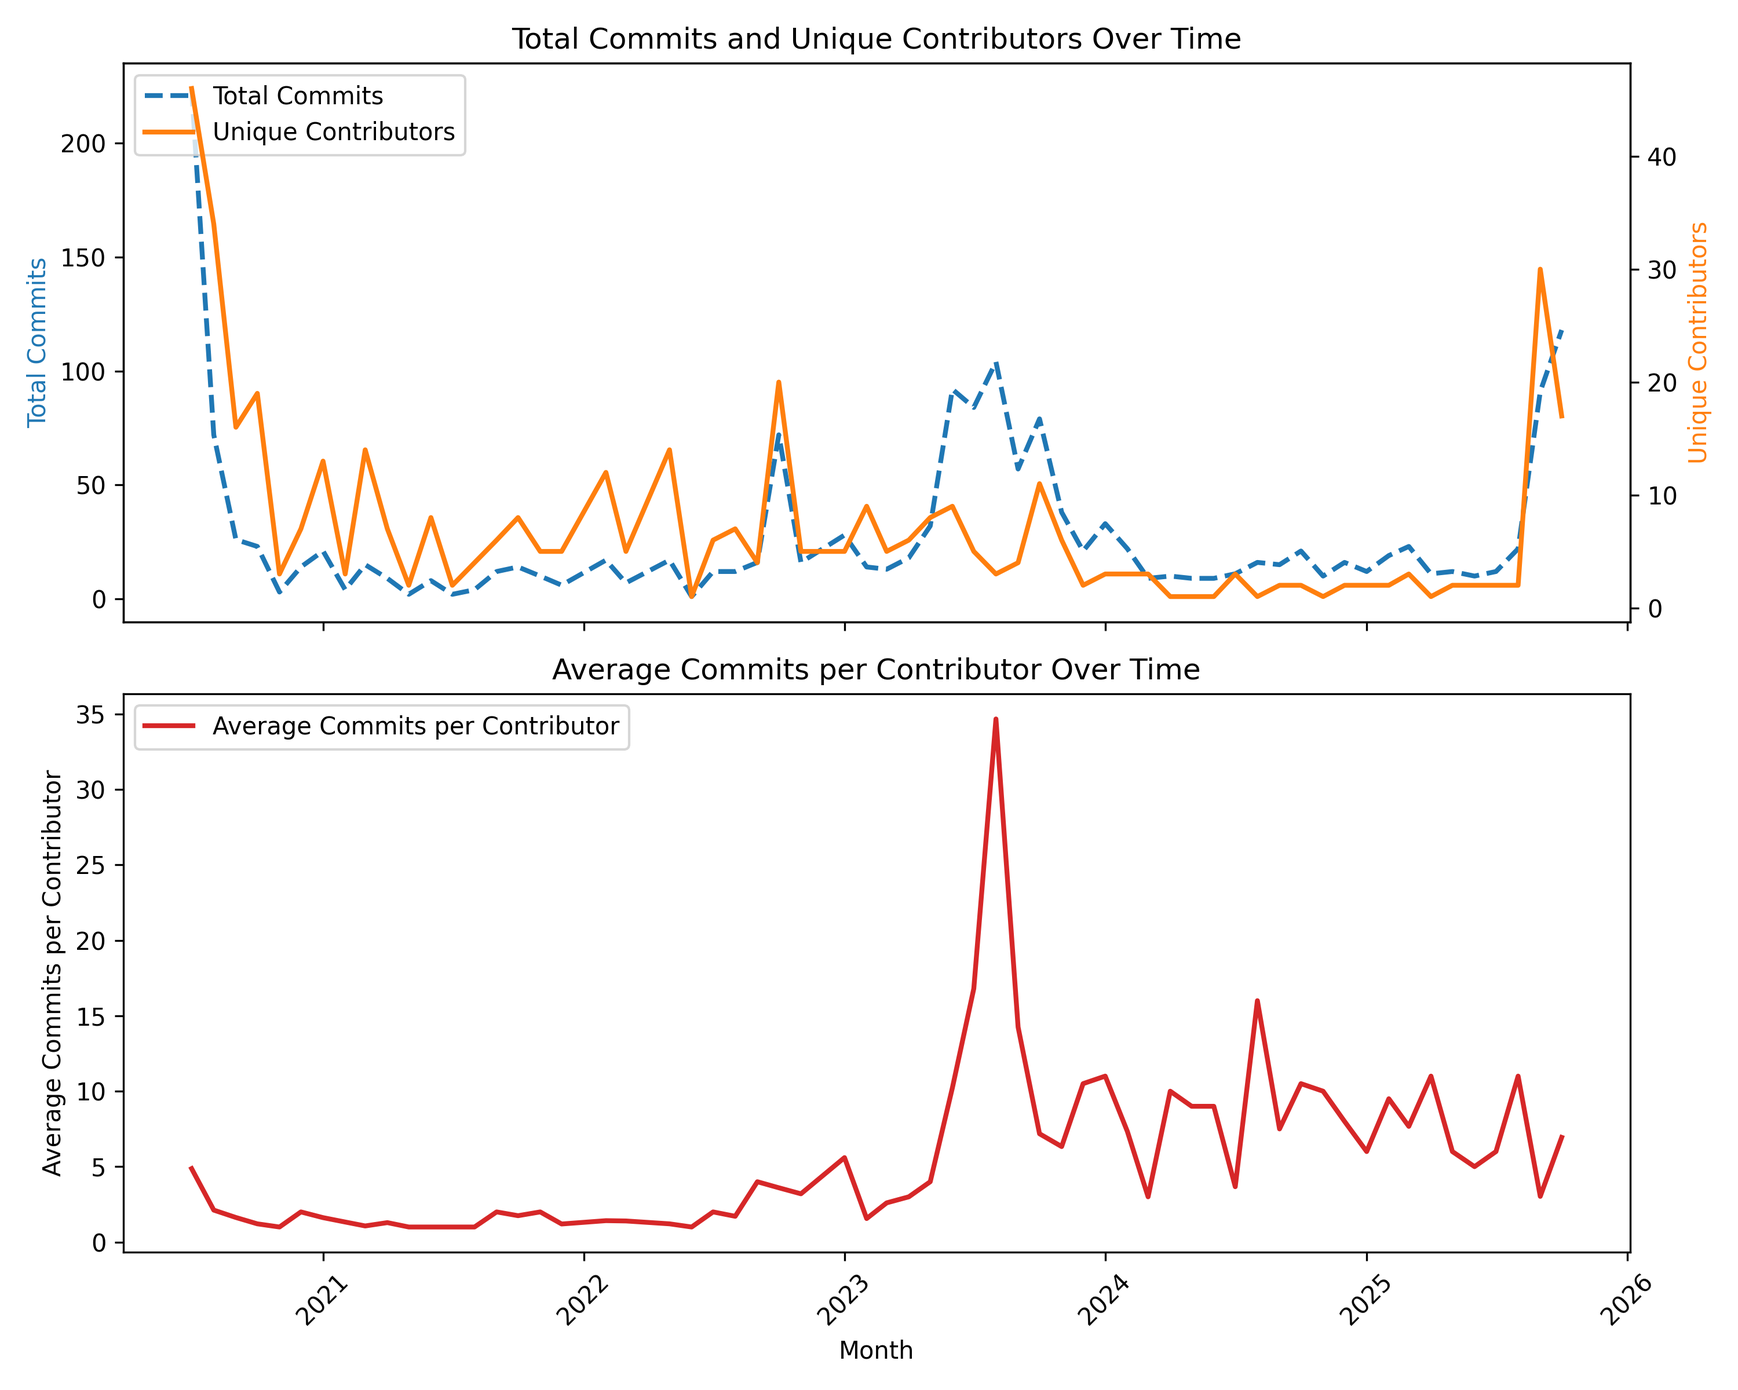
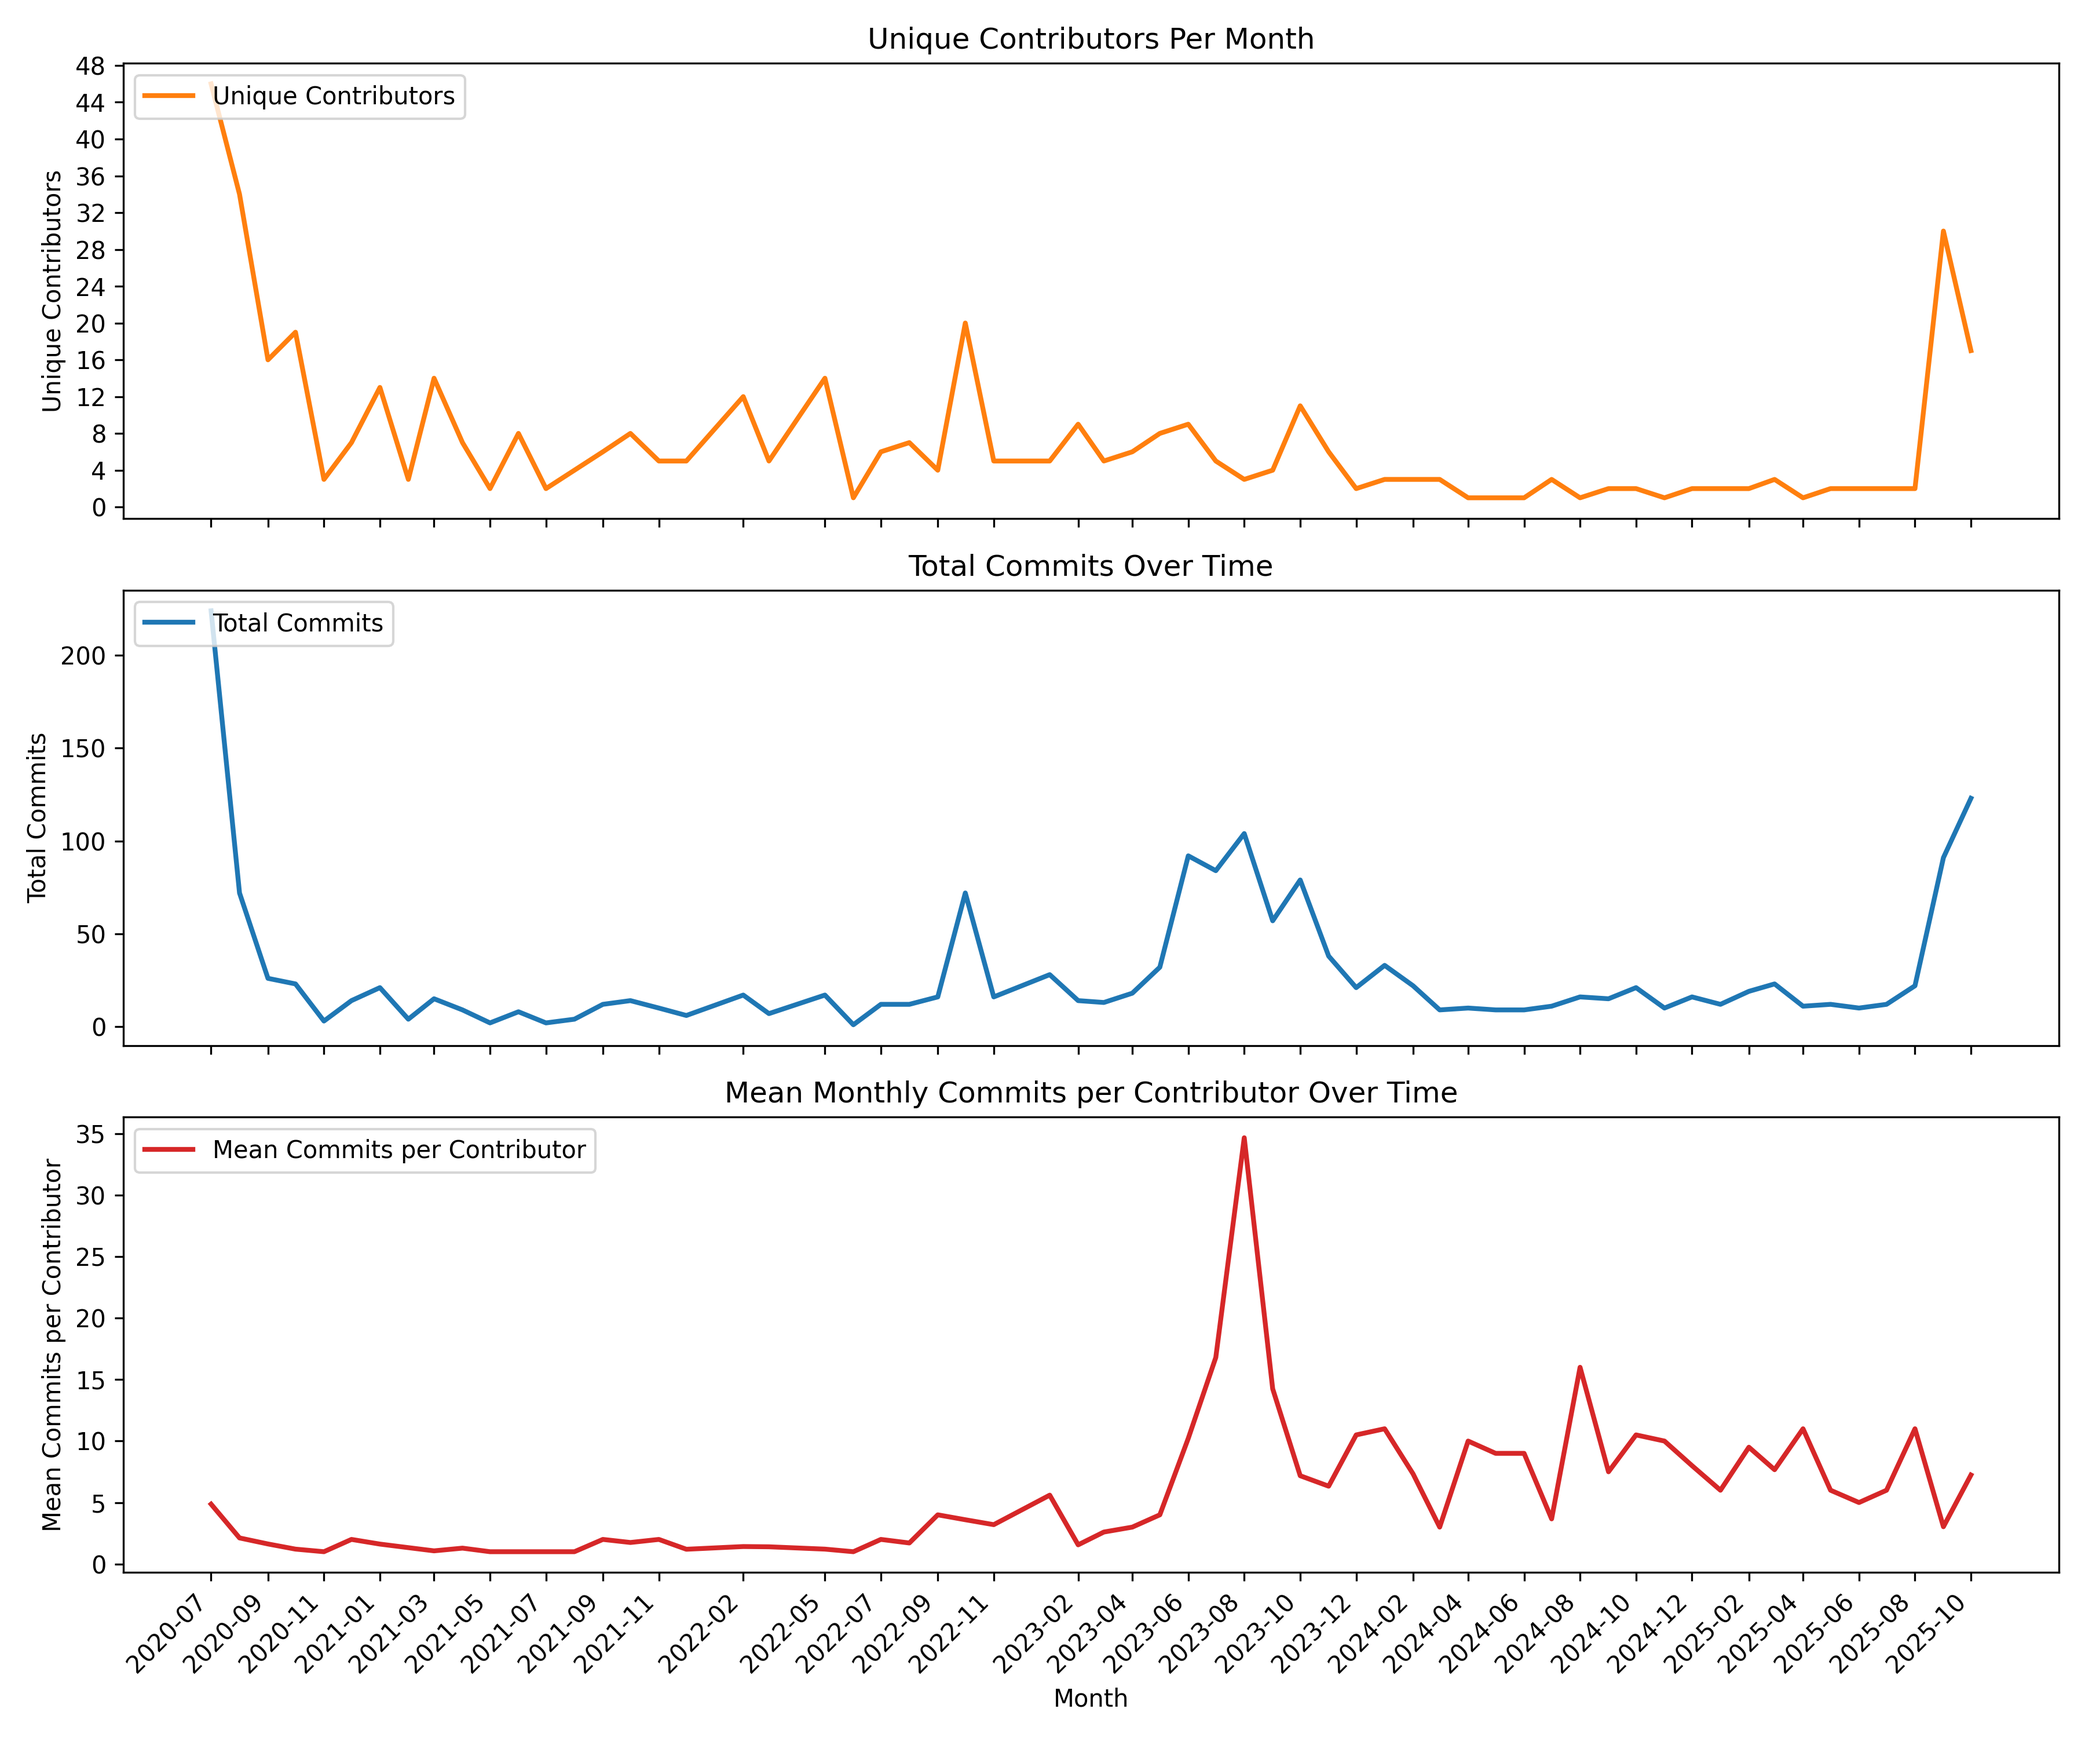
Update scripts

diff --git a/final-report/activity_metrics.js b/final-report/activity_metrics.js
@@ -9,10 +9,28 @@ const owner = "anuraghazra";
 const repo = "github-readme-stats";
 
 // --------------------------------------------------------
-// 1. Average commits per contributor per month
+// 1. Time since last commit
 // --------------------------------------------------------
-async function getAverageCommitsPerContributorByMonth() {
-    console.log(`Fetching commits for ${owner}/${repo} ...`);
+async function getTimeSinceLastCommit() {
+    console.log(`\n=== [1] Time Since Last Commit ===`);
+    const { data: commits } = await octokit.rest.repos.listCommits({
+        owner,
+        repo,
+        per_page: 1,
+    });
+    const lastCommitDate = dayjs(commits[0].commit.author.date);
+    const daysSince = dayjs().diff(lastCommitDate, "day");
+    console.log(
+        `Time since last commit: ${daysSince} days (${lastCommitDate.format("YYYY-MM-DD")})`
+    );
+    return daysSince;
+}
+
+// --------------------------------------------------------
+// 2 & 3. Unique contributors per month + Mean monthly commits per contributor
+// --------------------------------------------------------
+async function getContributorActivityByMonth() {
+    console.log(`\n=== [2 & 3] Monthly Contributor and Commit Activity ===`);
     const commits = await octokit.paginate(octokit.rest.repos.listCommits, {
         owner,
         repo,
@@ -38,48 +56,32 @@ async function getAverageCommitsPerContributorByMonth() {
             month,
             totalCommits: data.count,
             uniqueContributors: data.contributors.size,
-            avgCommitsPerContributor: (data.count / data.contributors.size).toFixed(2),
+            meanCommitsPerContributor: (data.count / data.contributors.size).toFixed(2),
         }));
 
     console.table(results);
 
-    const header = "month,total_commits,unique_contributors,avg_commits_per_contributor\n";
+    const header = "month,total_commits,unique_contributors,mean_commits_per_contributor\n";
     const csvData =
         header +
         results
             .map(
                 (r) =>
-                    `${r.month},${r.totalCommits},${r.uniqueContributors},${r.avgCommitsPerContributor}`
+                    `${r.month},${r.totalCommits},${r.uniqueContributors},${r.meanCommitsPerContributor}`
             )
             .join("\n");
 
-    const outputPath = "./average_commits_per_contributor.csv";
+    const outputPath = "./monthly_contributor_activity.csv";
     fs.writeFileSync(outputPath, csvData);
     console.log(`CSV file saved to ${outputPath}`);
+    return results;
 }
 
 // --------------------------------------------------------
-// 2. Time since last commit
-// --------------------------------------------------------
-async function getTimeSinceLastCommit() {
-    const { data: commits } = await octokit.rest.repos.listCommits({
-        owner,
-        repo,
-        per_page: 1,
-    });
-    const lastCommitDate = dayjs(commits[0].commit.author.date);
-    const daysSince = dayjs().diff(lastCommitDate, "day");
-    console.log(
-        `Time since last commit: ${daysSince} days (${lastCommitDate.format("YYYY-MM-DD")})`
-    );
-    return daysSince;
-}
-
-// --------------------------------------------------------
-// 3. Pull Request activity
+// 4. Pull Request activity
 // --------------------------------------------------------
 async function getPRActivity() {
-    console.log("Fetching Pull Requests...");
+    console.log(`\n=== [4] Pull Request Activity ===`);
     const prs = await octokit.paginate(octokit.rest.pulls.list, {
         owner,
         repo,
@@ -97,10 +99,10 @@ async function getPRActivity() {
 }
 
 // --------------------------------------------------------
-// 4. Issue activity
+// 5. Issue activity
 // --------------------------------------------------------
 async function getIssueActivity() {
-    console.log("Fetching Issues...");
+    console.log(`\n=== [5] Issue Activity ===`);
     const issues = await octokit.paginate(octokit.rest.issues.listForRepo, {
         owner,
         repo,
@@ -117,10 +119,10 @@ async function getIssueActivity() {
 }
 
 // --------------------------------------------------------
-// 5. Newcomer Retention (% of first-time contributors who return)
+// 6. Newcomer Retention (% of first-time contributors who return)
 // --------------------------------------------------------
 async function getNewcomerRetention() {
-    console.log("Calculating newcomer retention...");
+    console.log(`\n=== [6] Newcomer Retention ===`);
 
     const commits = await octokit.paginate(octokit.rest.repos.listCommits, {
         owner,
@@ -128,7 +130,6 @@ async function getNewcomerRetention() {
         per_page: 100,
     });
 
-    // Map contributors to their commit dates
     const contributorCommits = {};
     for (const c of commits) {
         const author = c.author?.login;
@@ -140,15 +141,10 @@ async function getNewcomerRetention() {
 
     let newcomers = 0;
     let retained = 0;
-
     for (const [author, dates] of Object.entries(contributorCommits)) {
         dates.sort((a, b) => a - b);
-        if (dates.length > 1) {
-            newcomers++;
-            retained++;
-        } else {
-            newcomers++;
-        }
+        newcomers++;
+        if (dates.length > 1) retained++;
     }
 
     const retentionPercent = ((retained / newcomers) * 100).toFixed(2);
@@ -161,13 +157,13 @@ async function getNewcomerRetention() {
 // --------------------------------------------------------
 (async () => {
     try {
-        console.log("=== Running Project Activity Metrics ===");
-        await getAverageCommitsPerContributorByMonth();
+        console.log("Running Project Activity Metrics...");
         await getTimeSinceLastCommit();
+        await getContributorActivityByMonth();
         await getPRActivity();
         await getIssueActivity();
         await getNewcomerRetention();
-        console.log("All metrics collected successfully.");
+        console.log("\nAll metrics collected successfully.");
     } catch (err) {
         console.error("Error fetching data:", err);
     }

diff --git a/final-report/plot.py b/final-report/plot.py
@@ -1,52 +1,62 @@
 import pandas as pd
 import matplotlib.pyplot as plt
+import numpy as np
 
 # === CONFIG ===
-csv_path = "final-report/average_commits_per_contributor.csv"  # path to your CSV file
-output_path = "final-report/activity_trends.png"               # output image file
+csv_path = "final-report/monthly_contributor_activity.csv"  # path to your CSV file
+output_path = "final-report/activity_trends.png"             # output image file
 
 # === Load data ===
 df = pd.read_csv(csv_path)
 df["month"] = pd.to_datetime(df["month"], format="%Y-%m")
 df = df.sort_values("month")
 
-# === Create figure with two subplots ===
-fig, (ax1, ax2) = plt.subplots(2, 1, figsize=(10, 8), sharex=True)
+# === Create figure with three subplots ===
+fig, axes = plt.subplots(3, 1, figsize=(12, 10), sharex=True)
 
 # -----------------------------------------------------------
-# Subplot 1: Commits and contributors (two y-axes)
+# Subplot 1: Unique contributors per month (TOP)
 # -----------------------------------------------------------
-ax1a = ax1.twinx()
+axes[0].plot(df["month"], df["unique_contributors"], color="tab:orange",
+             linestyle="-", linewidth=2, label="Unique Contributors")
 
-# Left y-axis: total commits (solid line)
-lns1 = ax1.plot(df["month"], df["total_commits"], color="tab:blue",
-                linestyle="--", linewidth=2, label="Total Commits")
+# Denser y-axis ticks
+ymin, ymax = axes[0].get_ylim()
+axes[0].set_yticks(np.arange(0, ymax + 1, max(1, (ymax // 10) or 1)))
 
-# Right y-axis: unique contributors (dashed line)
-lns2 = ax1a.plot(df["month"], df["unique_contributors"], color="tab:orange",
-                 linestyle="-", linewidth=2, label="Unique Contributors")
-
-# Labels and formatting
-ax1.set_ylabel("Total Commits", color="tab:blue")
-ax1a.set_ylabel("Unique Contributors", color="tab:orange")
-ax1.set_title("Total Commits and Unique Contributors Over Time")
-ax1.tick_params(axis="x", rotation=45)
-
-# Combine legends from both y-axes
-lines = lns1 + lns2
-labels = [l.get_label() for l in lines]
-ax1.legend(lines, labels, loc="upper left")
+axes[0].set_ylabel("Unique Contributors")
+axes[0].set_title("Unique Contributors Per Month")
+axes[0].legend(loc="upper left")
 
 # -----------------------------------------------------------
-# Subplot 2: Average commits per contributor (solid red line)
+# Subplot 2: Total commits over time (MIDDLE)
 # -----------------------------------------------------------
-ax2.plot(df["month"], df["avg_commits_per_contributor"], color="tab:red",
-         linestyle="-", linewidth=2, label="Average Commits per Contributor")
-ax2.set_ylabel("Average Commits per Contributor")
-ax2.set_xlabel("Month")
-ax2.set_title("Average Commits per Contributor Over Time")
-ax2.legend(loc="upper left")
-ax2.tick_params(axis="x", rotation=45)
+axes[1].plot(df["month"], df["total_commits"], color="tab:blue",
+             linestyle="-", linewidth=2, label="Total Commits")
+axes[1].set_ylabel("Total Commits")
+axes[1].set_title("Total Commits Over Time")
+axes[1].legend(loc="upper left")
+
+# -----------------------------------------------------------
+# Subplot 3: Mean monthly commits per contributor (BOTTOM)
+# -----------------------------------------------------------
+axes[2].plot(df["month"], df["mean_commits_per_contributor"], color="tab:red",
+             linestyle="-", linewidth=2, label="Mean Commits per Contributor")
+axes[2].set_ylabel("Mean Commits per Contributor")
+axes[2].set_xlabel("Month")
+axes[2].set_title("Mean Monthly Commits per Contributor Over Time")
+axes[2].legend(loc="upper left")
+
+# -----------------------------------------------------------
+# X-axis formatting: show every second month label
+# -----------------------------------------------------------
+every_second = df["month"].iloc[::2]  # every 2nd month
+axes[2].set_xticks(every_second)
+axes[2].set_xticklabels(
+    every_second.dt.strftime("%Y-%m"),
+    rotation=45,
+    ha="right"
+)
 
 # -----------------------------------------------------------
 # Final layout and export
